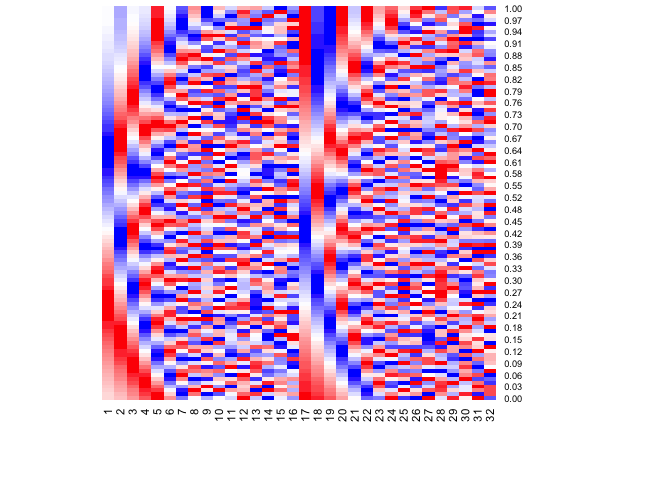
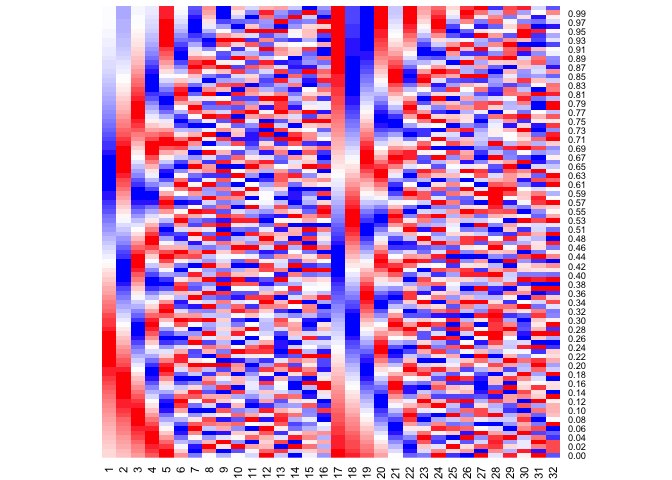
text ++

diff --git a/README.md b/README.md
@@ -76,6 +76,10 @@ interfere in model performance according to <span class="citation"
 data-cites="nichol2021">Nichol and Dhariwal (2021)</span> .</figcaption>
 </figure>
 
+Also in practice, we never let $\bar{\alpha_t}} = 0$ or
+$\bar{\alpha_t}} = 1$ and instead limit it into a minimum and maximum
+signal rate to avoid training stability issues.
+
 ## Reverse diffusion
 
 The forward diffusion process thus is a fixed procedure to generate
@@ -119,16 +123,124 @@ forward diffusion process was used as input noise for the reverse
 diffusion process.</figcaption>
 </figure>
 
-## Sinusoidal embedding
+## Neural network architecture
 
-A sinusoidal embedding is used to encode the diffusion times into the
-model. The visualization below shows how diffusion times are mapped to
-the embedding - assuming the dimension size of 32. Each row is a
-embedding vector given the diffusion time. Sinusoidal embedding have
-nice properties, like preserving the relative distances (Kazemnejad
-2019).
+Although denoising diffusion models can work with whatever kind of data
+distribution $q(x_0)$ that you might want to sample from, in this
+example we will apply it to image datasets. Thus $q(x_0)$ is the data
+distribution of images in the selected dataset.
 
-![](README_files/figure-commonmark/sinusoidal-1.png)
+Since we are dealing with images, we will use neural network
+architectures that are adapted for that domain. The neural network we
+are building takes a noisy image sampled from $q(x_t|x_0)$ and the
+variance $\bar{\alpha_t}$ and returns an estimate $\hat{\epsilon}$. Both
+$x_t$ and $\epsilon$ have the same dimensions which is 3D tensors with
+$(C, H, W)$ where $C=3$ is the number of channels and $H$ and $W$ are
+respectively the height and width of the images. Typically $H=W$ since
+we are going to use squared images.
+
+The core part of the neural network is a U-Net (Ronneberger, Fischer,
+and Brox 2015), which is a common architecture in domains where both the
+input and the output are image-like tensors. The U-Net takes as input a
+concatenation of $x_t$ with the sinusoidal embedding (Vaswani et al.
+2017) of $1 - \bar{\alpha_t}$. Embedding the noise variance into the
+model is very important as it allows the network to be sensible to
+different amount of noise, and thus being able to make good estimates
+for $x_{t-1}$ no matter the actual $t$. The output of the U-Net is then
+passed to a simple convolution layer that just processes it into a lower
+depth version.
+
+### Sinusoidal embedding
+
+A sinusoidal embedding (Vaswani et al. 2017) is used to encode the
+diffusion times (or the noise variance) into the model. The
+visualization below shows how diffusion times are mapped to the
+embedding - assuming the dimension size of 32. Each row is a embedding
+vector given the diffusion time. Sinusoidal embedding have nice
+properties, like preserving the relative distances (Kazemnejad 2019).
+
+<img src="README_files/figure-commonmark/sinusoidal-1.png" width="300"
+height="200" />
+
+You can find the code dor the sinusoidal embedding in `diffusion.R`.
+
+### U-Net
+
+A U-Net is a convolutional neural network that successively downsamples
+the image resolution while increasing its depth. After a few
+downsampling blocks, it starts upsampling the representation and
+decreasing the channels depth. The main idea in U-Net, is that much like
+Residual Networks, the upsampling blocks take as input both the
+representation from the previous upsampling block and the representation
+from a previous downsampling block.
+
+<figure>
+<img
+src="https://blogs.rstudio.com/ai/posts/2019-08-23-unet/images/unet.png"
+style="width:50.0%" alt="Unet model" />
+<figcaption aria-hidden="true">Unet model</figcaption>
+</figure>
+
+Unlike the original U-Net implementation, we use ResNet Blocks (He et
+al. 2015) in the downsampling and upsampling blocks of the U-Net. Each
+down or upsampling blocks contain *block_depth* of those ResNet blocks.
+We also use the [Swish
+activation](https://en.wikipedia.org/wiki/Swish_function) function.
+
+(Song, Meng, and Ermon 2020) and (Ho, Jain, and Abbeel 2020) also use an
+attention layer at lower resolutions, but we didn’t for simplicity. The
+code for the U-Net can be found in `unet.R`.
+
+## NN module
+
+Given the definitions of `unet` and the `sinusoidal_embedding` we can
+implement the diffusion model with:
+
+``` r
+diffusion <- nn_module(
+  initialize = function(image_size, embedding_dim = 32, widths = c(32, 64, 96, 128), block_depth = 2) {
+    self$unet <- unet(2*embedding_dim, embedding_dim, widths = widths, block_depth)
+    self$embedding <- sinusoidal_embedding(embedding_dim = embedding_dim)
+
+    self$conv <- nn_conv2d(image_size[1], embedding_dim, kernel_size = 1)
+    self$upsample <- nn_upsample(size = image_size[2:3])
+
+    self$conv_out <- nn_conv2d(embedding_dim, image_size[1], kernel_size = 1)
+    # we initialize at zeros so the initial output of the network is also just zeroes
+    purrr::walk(self$conv_out$parameters, nn_init_zeros_)
+  },
+  forward = function(noisy_images, noise_variances) {
+    embedded_variance <- noise_variances |>
+      self$embedding() |>
+      self$upsample()
+
+    embedded_image <- noisy_images |>
+      self$conv()
+
+    unet_input <- torch_cat(list(embedded_image, embedded_variance), dim = 2)
+    unet_output <- unet_input %>%
+      self$unet() %>%
+      self$conv_out()
+  }
+)
+```
+
+With the default hyperparameters here’s the diffusion model summary:
+
+``` r
+diffusion(image_size = c(3, 64, 64))
+```
+
+    An `nn_module` containing 3,562,211 parameters.
+
+    ── Modules ─────────────────────────────────────────────────────────────────────
+    • unet: <nn_module> #3,561,984 parameters
+    • embedding: <nn_module> #0 parameters
+    • conv: <nn_conv2d> #128 parameters
+    • upsample: <nn_upsample> #0 parameters
+    • conv_out: <nn_conv2d> #99 parameters
+
+## Training
 
 ## Sampling images
 
@@ -172,6 +284,14 @@ Béres, András. 2022. “Denoising Diffusion Implicit Models.”
 
 </div>
 
+<div id="ref-he2015" class="csl-entry">
+
+He, Kaiming, Xiangyu Zhang, Shaoqing Ren, and Jian Sun. 2015. “Deep
+Residual Learning for Image Recognition.”
+<https://doi.org/10.48550/ARXIV.1512.03385>.
+
+</div>
+
 <div id="ref-ho2020" class="csl-entry">
 
 Ho, Jonathan, Ajay Jain, and Pieter Abbeel. 2020. “Denoising Diffusion
@@ -202,6 +322,14 @@ Probabilistic Models.” <https://doi.org/10.48550/ARXIV.2102.09672>.
 
 </div>
 
+<div id="ref-ronneberger2015" class="csl-entry">
+
+Ronneberger, Olaf, Philipp Fischer, and Thomas Brox. 2015. “U-Net:
+Convolutional Networks for Biomedical Image Segmentation.”
+<https://doi.org/10.48550/ARXIV.1505.04597>.
+
+</div>
+
 <div id="ref-sohl-dickstein2015" class="csl-entry">
 
 Sohl-Dickstein, Jascha, Eric A. Weiss, Niru Maheswaranathan, and Surya
@@ -214,6 +342,15 @@ Thermodynamics.” <https://doi.org/10.48550/ARXIV.1503.03585>.
 
 Song, Jiaming, Chenlin Meng, and Stefano Ermon. 2020. “Denoising
 Diffusion Implicit Models.” <https://doi.org/10.48550/ARXIV.2010.02502>.
+
+</div>
+
+<div id="ref-vaswani2017" class="csl-entry">
+
+Vaswani, Ashish, Noam Shazeer, Niki Parmar, Jakob Uszkoreit, Llion
+Jones, Aidan N. Gomez, Lukasz Kaiser, and Illia Polosukhin. 2017.
+“Attention Is All You Need.”
+<https://doi.org/10.48550/ARXIV.1706.03762>.
 
 </div>
 
